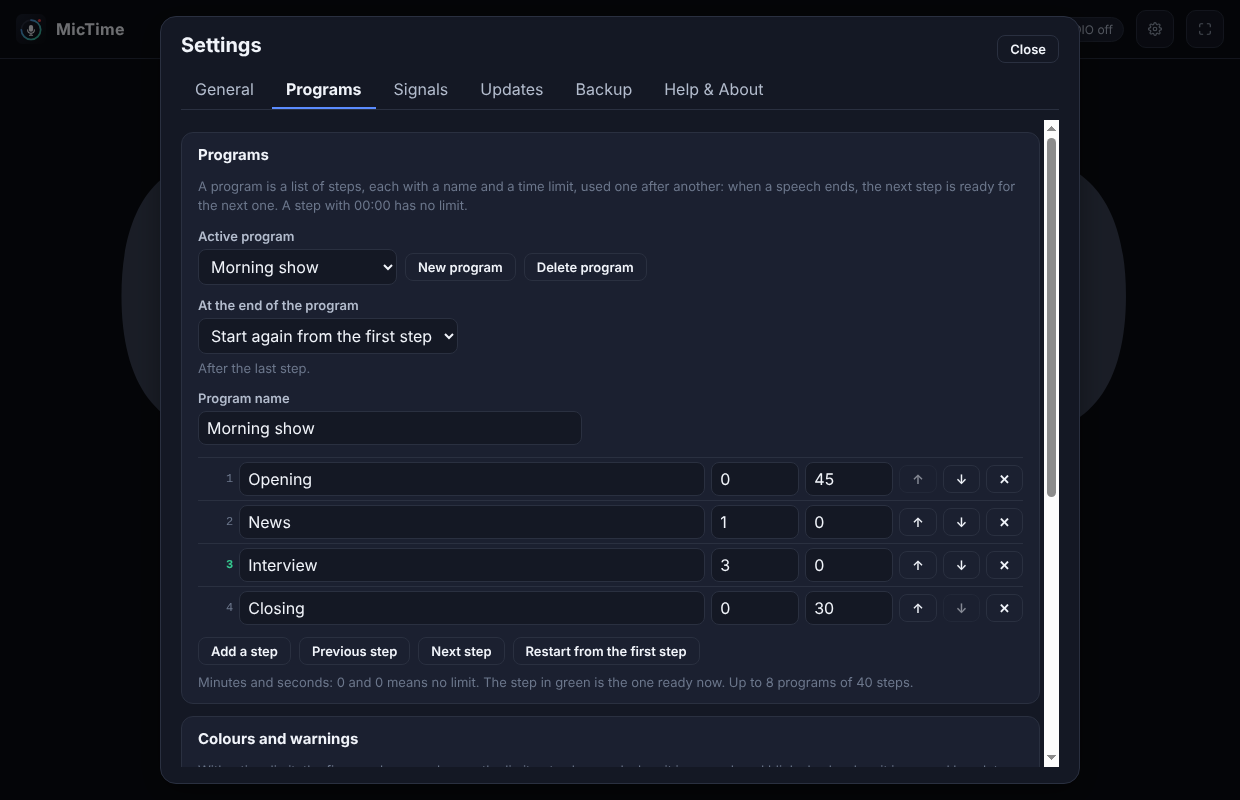
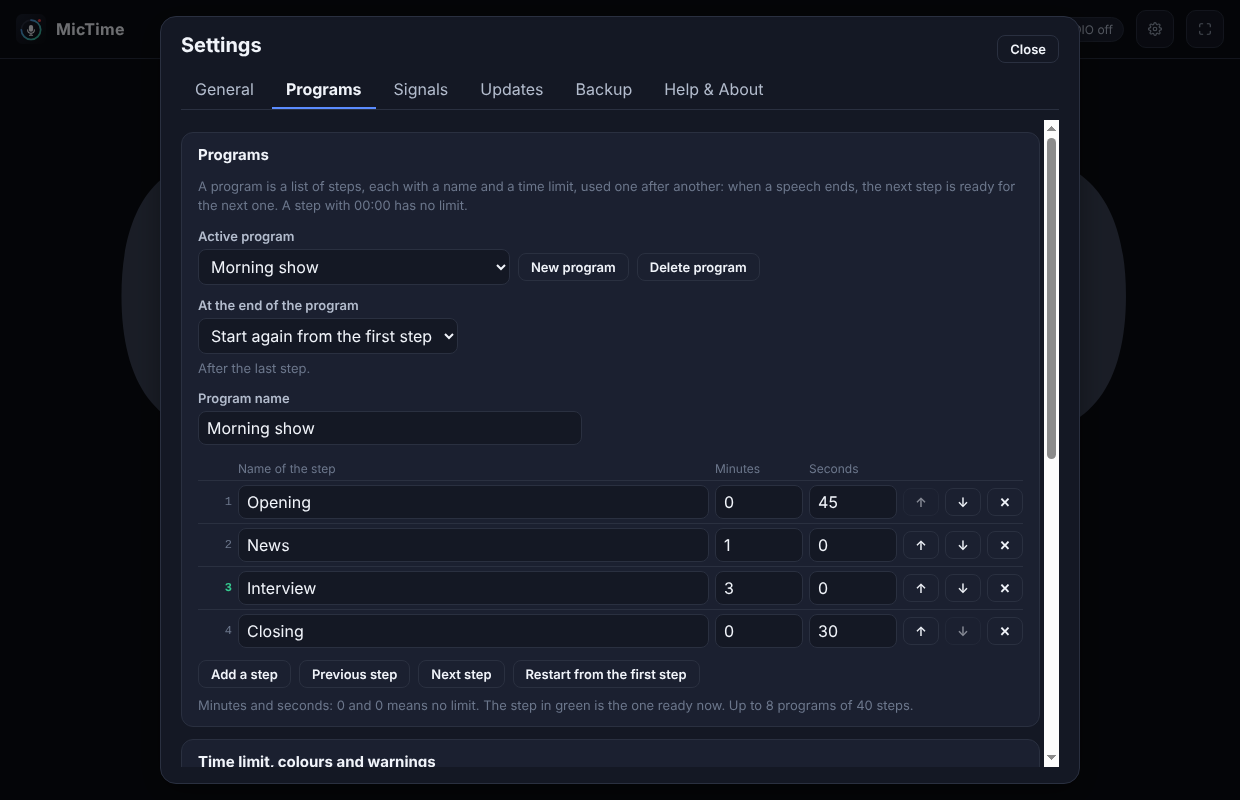
MicTime 0.2.2: single time limit without a program, step table alignment
- A single time limit (Settings -> Programs) applies when no program is
  active, with the same colours, warning and blinking; the line under the
  figures says "Limit 01:00". Until now a limit needed a one-step program.
- Fix: the headings of the step table were not above their boxes (the heading
  row used a smaller font, so its em-based columns were narrower). Fixed
  column widths in px.
- Tests: schema and backup of the limit, colours in the real window, and the
  alignment of the table (it failed before the fix).

Claude-Session: https://claude.ai/code/session_01Wm3qwANcwU4fSHuZwHAhFi

diff --git a/renderer/js/i18n.js b/renderer/js/i18n.js
@@ -149,7 +149,7 @@ GC.DICT = {
     'prog.title': 'Programs',
     'prog.intro': 'A program is a list of steps, each with a name and a time limit, used one after another: when a speech ends, the next step is ready for the next one. A step with 00:00 has no limit.',
     'prog.active': 'Active program',
-    'prog.none': 'No program (no limit)',
+    'prog.none': 'No program (the single limit applies)',
     'prog.new': 'New program',
     'prog.delete': 'Delete program',
     'prog.deleteSure': 'Click again to delete',
@@ -158,7 +158,7 @@ GC.DICT = {
     'prog.endFree': 'Go on without a limit',
     'prog.endHint': 'After the last step.',
     'prog.name': 'Program name',
-    'prog.noneHint': 'Create a program to give each speech its own time limit. Without a program the timer has no limit.',
+    'prog.noneHint': 'Create a program to give each speech its own time limit. Without a program the single limit below applies (none if it is 00:00).',
     'prog.defaultName': 'Program {n}',
     'prog.defaultStep': 'Step {n}',
     'prog.stepName': 'Name of the step',
@@ -177,7 +177,11 @@ GC.DICT = {
     'prog.step': 'Step {i}/{n}',
     'prog.nextStep': 'Next: {s}',
     'prog.end': 'End of the program: no limit',
-    'col.title': 'Colours and warnings',
+    'col.title': 'Time limit, colours and warnings',
+    'lim.single': 'Single time limit (no program)',
+    'lim.singleHint': 'Used when no program is active: the colours and warnings below follow this limit. 00:00 means no limit. With a program, each step has its own limit.',
+    'lim.minSec': 'minutes : seconds',
+    'prog.limitOnly': 'Limit {s}',
     'col.intro': 'With a time limit, the figures change colour as the limit gets close and when it is passed, and blink slowly when it is passed by a lot. The total keeps the colour it had at the stop.',
     'col.warnSec': 'Warning before the limit (seconds)',
     'col.warnSecHint': 'The figures turn to the warning colour this many seconds before the limit.',
@@ -384,7 +388,7 @@ GC.DICT = {
     'prog.title': 'Programmi',
     'prog.intro': 'Un programma è un elenco di passi, ognuno con un nome e un tempo limite, usati uno dopo l’altro: quando uno speech finisce, il passo successivo è pronto per il prossimo. Un passo con 00:00 non ha limite.',
     'prog.active': 'Programma attivo',
-    'prog.none': 'Nessun programma (senza limite)',
+    'prog.none': 'Nessun programma (vale il limite unico)',
     'prog.new': 'Nuovo programma',
     'prog.delete': 'Elimina programma',
     'prog.deleteSure': 'Clicca ancora per eliminare',
@@ -393,7 +397,7 @@ GC.DICT = {
     'prog.endFree': 'Continua senza limite',
     'prog.endHint': 'Dopo l’ultimo passo.',
     'prog.name': 'Nome del programma',
-    'prog.noneHint': 'Crea un programma per dare a ogni speech il suo tempo limite. Senza un programma il timer non ha limite.',
+    'prog.noneHint': 'Crea un programma per dare a ogni speech il suo tempo limite. Senza un programma vale il limite unico qui sotto (nessuno se è 00:00).',
     'prog.defaultName': 'Programma {n}',
     'prog.defaultStep': 'Passo {n}',
     'prog.stepName': 'Nome del passo',
@@ -412,7 +416,11 @@ GC.DICT = {
     'prog.step': 'Passo {i}/{n}',
     'prog.nextStep': 'Poi: {s}',
     'prog.end': 'Fine del programma: senza limite',
-    'col.title': 'Colori e avvisi',
+    'col.title': 'Tempo limite, colori e avvisi',
+    'lim.single': 'Tempo limite unico (senza programma)',
+    'lim.singleHint': 'Vale quando nessun programma è attivo: i colori e gli avvisi qui sotto seguono questo limite. 00:00 vuol dire senza limite. Con un programma, ogni passo ha il suo limite.',
+    'lim.minSec': 'minuti : secondi',
+    'prog.limitOnly': 'Limite {s}',
     'col.intro': 'Con un tempo limite le cifre cambiano colore quando il limite si avvicina e quando viene superato, e lampeggiano lentamente se viene superato di molto. Il totale tiene il colore che aveva allo stop.',
     'col.warnSec': 'Avviso prima del limite (secondi)',
     'col.warnSecHint': 'Le cifre passano al colore di avviso questi secondi prima del limite.',
@@ -619,7 +627,7 @@ GC.DICT = {
     'prog.title': 'Programas',
     'prog.intro': 'Un programa es una lista de pasos, cada uno con un nombre y un tiempo límite, que se usan uno tras otro: cuando termina una intervención, el siguiente paso queda listo para la próxima. Un paso con 00:00 no tiene límite.',
     'prog.active': 'Programa activo',
-    'prog.none': 'Sin programa (sin límite)',
+    'prog.none': 'Sin programa (vale el límite único)',
     'prog.new': 'Nuevo programa',
     'prog.delete': 'Eliminar programa',
     'prog.deleteSure': 'Pulsa otra vez para eliminar',
@@ -628,7 +636,7 @@ GC.DICT = {
     'prog.endFree': 'Seguir sin límite',
     'prog.endHint': 'Después del último paso.',
     'prog.name': 'Nombre del programa',
-    'prog.noneHint': 'Crea un programa para dar a cada intervención su propio tiempo límite. Sin programa el temporizador no tiene límite.',
+    'prog.noneHint': 'Crea un programa para dar a cada intervención su propio tiempo límite. Sin programa vale el límite único de abajo (ninguno si es 00:00).',
     'prog.defaultName': 'Programa {n}',
     'prog.defaultStep': 'Paso {n}',
     'prog.stepName': 'Nombre del paso',
@@ -647,7 +655,11 @@ GC.DICT = {
     'prog.step': 'Paso {i}/{n}',
     'prog.nextStep': 'Después: {s}',
     'prog.end': 'Fin del programa: sin límite',
-    'col.title': 'Colores y avisos',
+    'col.title': 'Tiempo límite, colores y avisos',
+    'lim.single': 'Tiempo límite único (sin programa)',
+    'lim.singleHint': 'Vale cuando no hay ningún programa activo: los colores y avisos de abajo siguen este límite. 00:00 significa sin límite. Con un programa, cada paso tiene su propio límite.',
+    'lim.minSec': 'minutos : segundos',
+    'prog.limitOnly': 'Límite {s}',
     'col.intro': 'Con un tiempo límite, las cifras cambian de color cuando el límite se acerca y cuando se supera, y parpadean despacio si se supera por mucho. El total mantiene el color que tenía al parar.',
     'col.warnSec': 'Aviso antes del límite (segundos)',
     'col.warnSecHint': 'Las cifras pasan al color de aviso estos segundos antes del límite.',

diff --git a/renderer/js/settings.js b/renderer/js/settings.js
@@ -273,6 +273,11 @@ function programsTab() {
       cur ? stepsEditor(cur, edit) : h('p', { class: 'hint', text: t('prog.noneHint') })),
     card(t('col.title'),
       h('p', { class: 'hint', text: t('col.intro') }),
+      row(t('lim.single'), h('div', { class: 'inline-row' },
+        h('input', { type: 'number', min: 0, max: 600, step: 1, value: Math.floor(s.timer.limitSeconds / 60), title: t('prog.minutes'), 'aria-label': t('prog.minutes'), onchange: (e) => save({ timer: { limitSeconds: Math.max(0, Math.round(Number(e.target.value)) || 0) * 60 + (S().timer.limitSeconds % 60) } }) }),
+        h('span', { class: 'mono', text: ':' }),
+        h('input', { type: 'number', min: 0, max: 59, step: 1, value: s.timer.limitSeconds % 60, title: t('prog.seconds'), 'aria-label': t('prog.seconds'), onchange: (e) => save({ timer: { limitSeconds: Math.floor(S().timer.limitSeconds / 60) * 60 + Math.min(59, Math.max(0, Math.round(Number(e.target.value)) || 0)) } }) }),
+        h('span', { class: 'hint inline', text: t('lim.minSec') })), t('lim.singleHint')),
       row(t('col.warnSec'), number(s.timer.warnSeconds, 0, 3600, 1, (n) => save({ timer: { warnSeconds: n } })), t('col.warnSecHint')),
       row(t('col.flashSec'), number(s.timer.flashSeconds, 0, 3600, 1, (n) => save({ timer: { flashSeconds: n } })), t('col.flashSecHint')),
       ...['normal', 'warn', 'over', 'idle'].map((k) => h('div', { class: 'color-row' },
@@ -291,7 +296,7 @@ function stepsEditor(cur, edit) {
   const idx = GC.program.index();
   const wrap = h('div', { class: 'steps' });
   const msg = h('div', { class: 'hint', text: t('prog.stepsHint') });
-  wrap.append(h('div', { class: 'step-row head' }, h('span'), h('span', { text: t('prog.stepName') }), h('span', { text: t('prog.minutes') }), h('span', { text: t('prog.seconds') })));
+  wrap.append(h('div', { class: 'step-row head' }, h('span'), h('span', { text: t('prog.stepName') }), h('span', { text: t('prog.minutes') }), h('span', { text: t('prog.seconds') }), h('span'), h('span'), h('span')));
   cur.steps.forEach((st, i) => {
     const mins = Math.floor(st.sec / 60);
     const secs = st.sec % 60;

diff --git a/renderer/style.css b/renderer/style.css
@@ -159,10 +159,11 @@ body.fullscreen #stepbar[hidden] { display: none !important; }
 
 /* ---- Settings → Programs ---- */
 .steps { width: 100%; }
-.step-row { display: grid; grid-template-columns: 2.2em 1fr 5.5em 5.5em auto auto auto; gap: 6px; align-items: center; padding: 4px 0; border-top: 1px solid var(--line); }
+.step-row { display: grid; grid-template-columns: 34px 1fr 88px 88px 36px 36px 36px; /* px, not em: the heading row has a smaller font and must have the same columns */ gap: 6px; align-items: center; padding: 4px 0; border-top: 1px solid var(--line); }
 .step-row input[type='text'] { font: inherit; padding: 6px 8px; border-radius: 8px; border: 1px solid var(--line); background: var(--panel); color: var(--fg); min-width: 0; }
 .step-row input[type='number'] { width: 100%; }
 .step-row.head { border-top: 0; font-size: 12px; color: var(--dim); }
+.step-row .btn { width: 36px; padding: 5px 0; text-align: center; }
 .step-row .idx { color: var(--dim); font-family: var(--mono); font-size: 12px; text-align: right; }
 .step-row.current .idx { color: var(--green); font-weight: 700; }
 .field input[type='text'] { font: inherit; padding: 6px 8px; border-radius: 8px; border: 1px solid var(--line); background: var(--panel); color: var(--fg); width: min(24em, 100%); }
@@ -179,6 +180,6 @@ body.fullscreen #stepbar[hidden] { display: none !important; }
   body.phase-running.lim-flash .stage { box-shadow: inset 0 0 0 8px var(--c-over); }
 }
 @media (max-width: 640px) {
-  .step-row { grid-template-columns: 1.6em 1fr 4.5em 4.5em; }
+  .step-row { grid-template-columns: 26px 1fr 72px 72px 34px 34px 34px; }
   .color-row { grid-template-columns: 1fr auto; }
 }

diff --git a/src/schema.js b/src/schema.js
@@ -26,6 +26,7 @@ export const LIMITS = {
   warnSeconds: [0, 3600],
   flashSeconds: [0, 3600],
   stepSeconds: [0, 36000], // 0 = no limit
+  limitSeconds: [0, 36000], // the single limit used when no program is active; 0 = no limit
   programs: 8,
   steps: 40,
   programName: 60,
@@ -43,6 +44,7 @@ export function defaults() {
       mode: 'toggle', // toggle: one signal starts and the next stops | separate: start and stop are different signals
       holdSeconds: 5, // the total stays on screen this long, then back to zero
       holdForever: false, // true: the total stays until the next start or a reset
+      limitSeconds: 0, // the time limit when no program is active (a program has a limit for each step); 0 = no limit
       debounceMs: 300, // a second start/stop within this time is taken as the same press
       warnSeconds: 10, // the figures turn to the warning colour this many seconds before the limit
       flashSeconds: 10 // and blink slowly when the limit is passed by this many seconds
@@ -122,6 +124,7 @@ export function sanitizeSettings(input, base = defaults()) {
       mode: oneOf(t.mode, ['toggle', 'separate'], 'toggle'),
       holdSeconds: clampInt(t.holdSeconds, LIMITS.holdSeconds, def.timer.holdSeconds),
       holdForever: bool(t.holdForever, false),
+      limitSeconds: clampInt(t.limitSeconds, LIMITS.limitSeconds, 0),
       debounceMs: clampInt(t.debounceMs, LIMITS.debounceMs, def.timer.debounceMs),
       warnSeconds: clampInt(t.warnSeconds, LIMITS.warnSeconds, def.timer.warnSeconds),
       flashSeconds: clampInt(t.flashSeconds, LIMITS.flashSeconds, def.timer.flashSeconds)

diff --git a/renderer/js/app.js b/renderer/js/app.js
@@ -26,7 +26,13 @@ const setIndex = (p, i) => {
   programIndex[p.id] = i;
   window.api.runtime.setProgramIndex(p.id, i);
 };
-const activeStep = () => currentStep(program(), indexOf(program()));
+// The step being timed: the current step of the active program, or, with no program, the single limit of the settings.
+const activeStep = () => {
+  const p = program();
+  if (p) return currentStep(p, indexOf(p));
+  const sec = GC.state.settings.timer.limitSeconds;
+  return sec > 0 ? { name: '', sec } : null;
+};
 
 GC.drawPills = () => drawPills();
 GC.program = { current: program, index: () => indexOf(program()), set: (i) => { const p = program(); if (p) { setIndex(p, i); lastStepKey = ''; draw(); } } };
@@ -126,7 +132,7 @@ function drawSteps(phase, shown) {
   const p = program();
   const s = GC.state.settings;
   const i = p ? indexOf(p) : 0;
-  const key = `${phase}|${p?.id}|${i}|${shown?.name}|${shown?.sec}|${finished ? 1 : 0}|${GC.state.lang}`;
+  const key = `${phase}|${p?.id}|${i}|${shown?.name}|${shown?.sec}|${finished ? 1 : 0}|${GC.state.lang}|${s.timer.limitSeconds}`;
   if (key === lastStepKey) return;
   lastStepKey = key;
   const free = GC.t('prog.free');
@@ -146,6 +152,7 @@ function drawSteps(phase, shown) {
       next = after ? GC.t('prog.nextStep', { s: stepText(after, free) }) : GC.t('prog.end');
     }
   }
+  if (!p && s.timer.limitSeconds > 0) next = GC.t('prog.limitOnly', { s: formatDuration(s.timer.limitSeconds * 1000) });
   $('stepLabel').textContent = label;
   $('stepNext').textContent = next;
   $('btnPrev').disabled = $('btnNext').disabled = $('btnRestart').disabled = !p;

diff --git a/README.md b/README.md
@@ -17,7 +17,7 @@ By Graziano Melzi · [OnAir Garage](https://onairgarage.com) — contact: hello@
 ## What it does
 
 - **Timer**: very large figures (`mm:ss`, `h:mm:ss` from one hour). Ready → counting → **total** (kept on screen for the time you set, 1–600 s, 5 by default, or until the next start with *never reset by itself*) → back to zero. A new start signal during the total begins a new count at once.
-- **Time limits and programs**: a *program* is a list of steps, each with a name and a limit (for example Opening 00:45, News 01:00, Interview 03:00). After every speech the next step is armed by itself; at the end the program starts again or goes on without a limit. The step on screen and the next one are shown under the figures. Up to 8 programs of 40 steps, chosen from a menu or in Settings → Programs. Three more signals (**next step**, **previous step**, **restart program**) for when the running order changes. A step with 00:00 has no limit; with no program there is no limit.
+- **Time limits and programs**: a *program* is a list of steps, each with a name and a limit (for example Opening 00:45, News 01:00, Interview 03:00). After every speech the next step is armed by itself; at the end the program starts again or goes on without a limit. The step on screen and the next one are shown under the figures. Up to 8 programs of 40 steps, chosen from a menu or in Settings → Programs. Three more signals (**next step**, **previous step**, **restart program**) for when the running order changes. A step with 00:00 has no limit. With no program active, a **single time limit** (Settings → Programs) applies instead, with the same colours and warnings; 00:00 = no limit.
 - **Colours**: the figures are grey at zero, change to a warning colour a few seconds before the limit (10 by default), to red when it is passed, and blink slowly (about once a second) when it is passed by a lot (10 s by default). The total keeps the colour it had at the stop. The four colours can be chosen. With "reduce motion" on in the system a steady red frame replaces the blinking.
 - **Two ways to use the signals**: *one signal* (the same message or key starts and stops) or *two signals* (one starts, the other stops; or the same message with "on starts, off stops"). A separate **reset** signal returns to zero at once.
 - **MIDI** (receive only): choose the input, assign start / stop / reset to a **note, a controller (CC) or a program change** with **MIDI learn**, any channel or one channel, and watch the incoming messages in a monitor. A value above 0 is *on*, 0 is *off*. Published specification with connection examples: [docs/MIDI-SPEC.md](docs/MIDI-SPEC.md).

diff --git a/CHANGELOG.md b/CHANGELOG.md
@@ -1,5 +1,11 @@
 # Changelog
 
+## 0.2.2 — 2026-10-16 (beta)
+
+- **Single time limit**: a time limit that applies when no program is active (Settings → Programs → *Time limit, colours and warnings*, minutes and seconds; 00:00 = no limit). The colours, the warning and the blinking follow it exactly as they follow the step of a program, and the line under the figures says `Limit 01:00`. Until now a limit needed a program with one step.
+- **Fixed**: in the table of steps the headings "Minutes" and "Seconds" were not above their boxes. The columns now have fixed widths.
+- Tests: the single limit (settings, backup, colours in the real window) and the alignment of the step table are checked.
+
 ## 0.2.1 — 2026-10-16 (beta)
 
 - **Fixed: the "What's new" window could not be closed** when the list was taller than the window (the OK button was out of view). The list now scrolls, the title and the OK button stay in view, and the window also closes with `Esc`, `Enter` or a click outside it.

diff --git a/docs/MANUAL.md b/docs/MANUAL.md
@@ -29,7 +29,8 @@ control room.
 ## Settings → Programs
 
 **A program** is a list of steps, each with a name and a time limit (minutes and seconds; 00:00 = no limit): for example *Opening 00:45, News 01:00,
-Interview 03:00, Closing 00:30*. Without an active program the timer has no limit.
+Interview 03:00, Closing 00:30*. Without an active program the **single time limit** applies (same tab, *Time limit, colours and warnings*): minutes and seconds, 00:00 = no limit. It gets the same colours,
+warning and blinking as the steps of a program, and the line under the figures says `Limit 01:00`.
 
 - **Using it**: choose the active program (here or with the menu on the main screen). The first step is armed. When a speech ends (the stop signal), the total stays on
   screen in the colour it had, and the **next step is armed by itself**. **Reset** cancels the count in progress and does *not* move to the next step.
